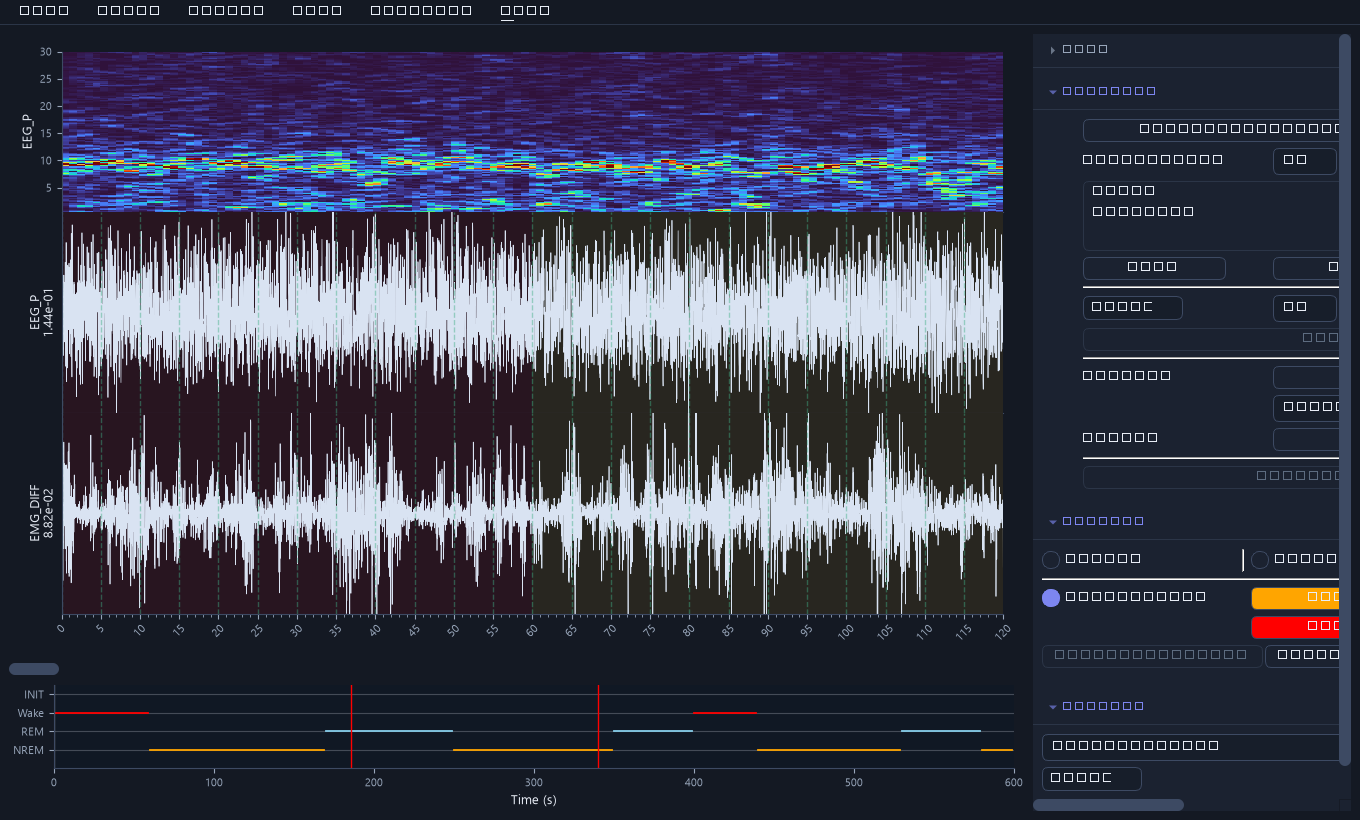
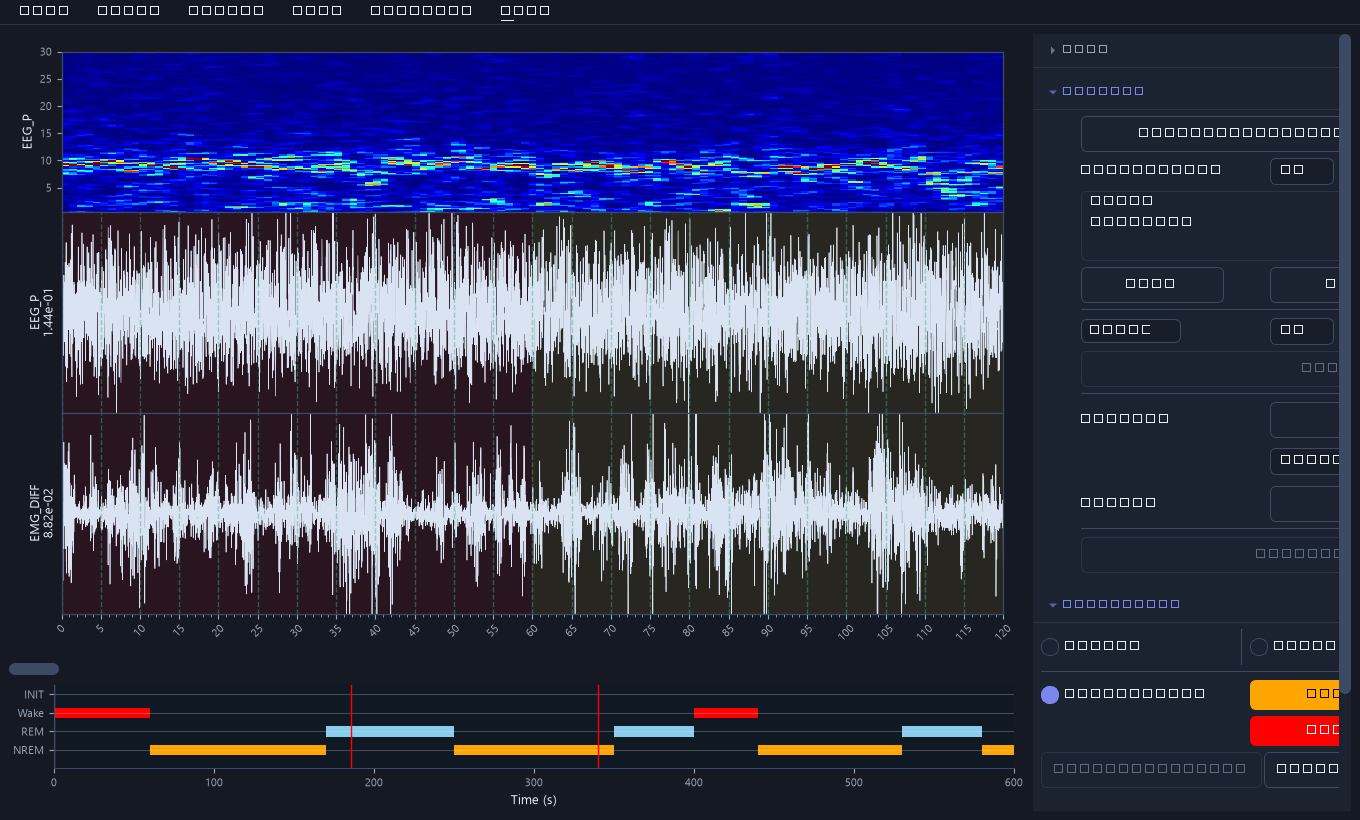
docs: guide/changelog updates and fresh preview screenshots

diff --git a/docs/user_guide.md b/docs/user_guide.md
@@ -14,7 +14,7 @@ The main window follows the classic scoring workflow:
      (LightGBM, Transformer)
    * **Result** — State Spectral, Transfer Result
    * **Settings** — the in-application settings dialog (own menu)
-   * **View** — expand/collapse the Data, Channels, Scoring and Display
+   * **View** — expand/collapse the Meta, Channel, Annotation and Time
      sidebar sections
    * **Help** — About
    The window starts **maximized**, so the signal area uses all the
@@ -27,10 +27,10 @@ The main window follows the classic scoring workflow:
      packed, and everything adapts when you resize the window,
    * the **hypnogram** at the bottom, with the **scroll bar** below.
 3. **Tool area (right)** — one tidy **sidebar** with four collapsible
-   sections: **Data** (paths, acquisition time; starts collapsed), the
-   **Channels** list, **Scoring** and **Display**. Click a section header
-   to expand/collapse it; the panel keeps a fixed width so the signal
-   area stays dominant.
+   sections named as before: **Meta** (paths, acquisition time; starts
+   collapsed), **Channel**, **Annotation** and **Time**. Click a section
+   header to expand/collapse it; the panel keeps a fixed width so the
+   signal area stays dominant.
 
 Usability details:
 
@@ -119,7 +119,7 @@ Navigation:
 * `Up`/`Down` — previous/next 5 s epoch,
 * mouse wheel — page up/down.
 
-### Channel list (Channels section)
+### Channel list (Channel section)
 
 * **▲ / ▼ arrow buttons** sit **horizontally in the same row as the
   spectrogram percentile box** (compact, 24×24) and move the selected
@@ -138,11 +138,11 @@ Click anywhere on it to jump to that time.
 
 ## Right-hand sidebar
 
-### Data section
+### Meta section
 
 Shows the data path, annotation path, and acquisition time.
 
-### Channels section
+### Channel section
 
 * **Show / Hide / Delete** — control which channels are displayed; delete
   removes them from the in-memory data.
@@ -155,7 +155,7 @@ Shows the data path, annotation path, and acquisition time.
   (> 5 s) in the annotation area, opens the spectrum/spectrogram window
   for the selected channel.
 
-### Scoring section
+### Annotation section
 
 Three scoring modes (radio buttons) plus the **Marker list** / **Start-End
 list** buttons which open a viewer of all already-labeled events:
@@ -178,13 +178,13 @@ Scoring itself works as before:
 * **Sleep state** — click twice to define an interval, then press one of
   the **state buttons** or the number key for that state (`1`–`9`, and
   `0` for state 10) to score it. The default has four states (1 NREM,
-  2 REM, 3 Wake, 4 Init) whose buttons live in the Scoring section; add
+  2 REM, 3 Wake, 4 Init) whose buttons live in the Annotation section; add
   up to **10 states** in *Settings → Sleep states* and extra buttons
   appear below them, colored automatically.
 
 Right-click removes markers / start-end selections.
 
-### Display section
+### Time section
 
 Jump to a specific time with the spin box or the date-time editor; choose
 the display duration from the combo box (30 s – 1 h) or a custom value
@@ -220,8 +220,8 @@ the display duration from the combo box (30 s – 1 h) or a custom value
 
 ### Help
 
-* **View** — check/uncheck to expand or collapse the Data, Channels,
-  Scoring and Display sidebar sections (same as clicking their headers).
+* **View** — check/uncheck to expand or collapse the Meta, Channel,
+  Annotation and Time sidebar sections (same as clicking their headers).
 * **About** — version and update info.
 * **Settings** — opens the in-application settings dialog. Changes are
   **applied immediately** without restarting MiSleep:

diff --git a/CHANGELOG.md b/CHANGELOG.md
@@ -10,17 +10,19 @@ and this project adheres to [Semantic Versioning](https://semver.org/spec/v2.0.0
 ### Changed
 
 - **GUI redesign**: the four right-side docks were replaced by one tidy
-  **sidebar** with collapsible sections (Data / Channels / Scoring /
-  Display); the bottom **status bar was removed**; all sizes are DPI-aware
-  (`pt`-based) with per-platform fonts, so the GUI scales cleanly on any
-  screen.
+  **sidebar** with collapsible sections (named as before: Meta / Channel /
+  Annotation / Time); the bottom **status bar was removed**; all sizes are
+  DPI-aware (`pt`-based) with per-platform fonts, so the GUI scales
+  cleanly on any screen.
 - **Theme system**: light and dark themes driven by one palette that
   styles the Qt widgets *and* the matplotlib canvases together; toggle
   with `Ctrl+Shift+T` or *Settings → General → Theme* (persists in the
-  user config).
-- **Data presentation**: hypnogram is now colored per sleep state;
-  spectrogram colormap is configurable (default `turbo` instead of
-  `jet`); signal traces, grids and labels follow the active theme.
+  user config). Dark mode also sets a matching QPalette so style-drawn
+  elements (arrows, separators, calendar, state buttons) stay readable.
+- **Data presentation**: hypnogram drawn as thick per-state blocks (easy
+  to read on long recordings); every signal panel gets a visible frame;
+  the spectrogram colormap stays `jet` by default (configurable in
+  Settings).
 - **Performance**: page flips are much faster — the whole-file
   spectrogram is cached per channel (sliced per window), the hypnogram
   base is cached and reused, signal axes are reused instead of recreated,
